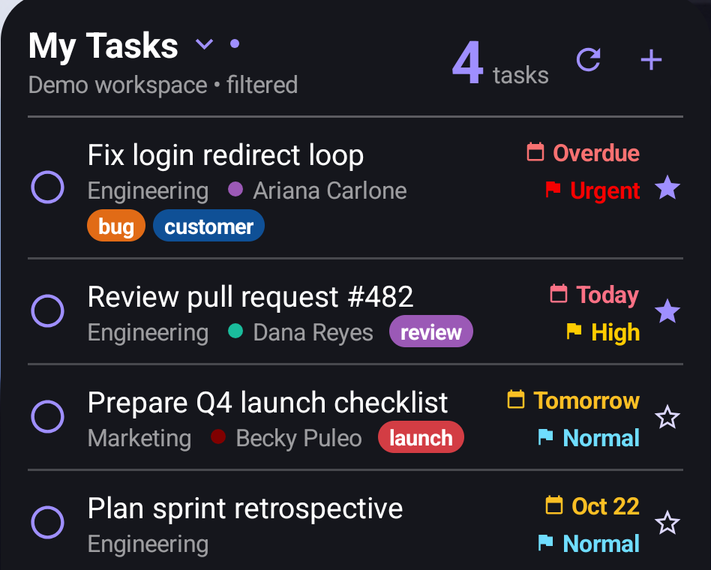
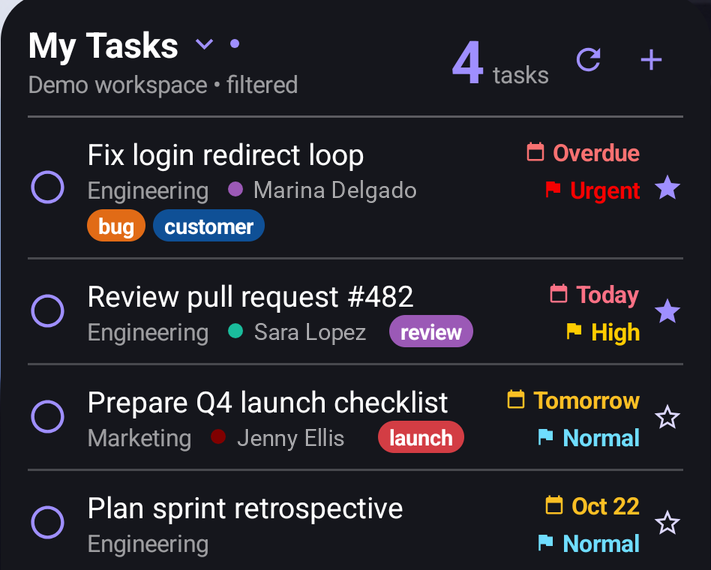
Use fictional names and ticket numbers in demo data, tests and docs
Same-length replacements keep the character-width layout tests valid. The two docs screenshots were repainted in Roboto at the original size and color.

Changed region(s): [[0.3404, 0.2982, 0.5879, 0.3579], [0.3094, 0.7456, 0.526, 0.8053], [0.3404, 0.5667, 0.526, 0.6263]]

diff --git a/android/app/src/test/java/net/jwowk/clickupwidget/widget/WidgetMathTest.kt b/android/app/src/test/java/net/jwowk/clickupwidget/widget/WidgetMathTest.kt
@@ -135,7 +135,7 @@ class WidgetMathTest {
   private fun layout(
     textW: Float,
     list: String? = "Ops team", // 57.6dp
-    req: String? = "Dana Reyes", // 72dp
+    req: String? = "Sara Lopez", // 72dp
     prio: Float? = 45f,
     tags: List<String> = emptyList(),
     measure: WidgetMath.TextMeasure = WidgetMath.ESTIMATE,
@@ -146,7 +146,7 @@ class WidgetMathTest {
     assertEquals(WidgetMath.Slot.META_LINE, l.tags)
     assertEquals(2, l.tagChips)
     assertEquals("Ops team", l.listName)
-    assertEquals("Dana Reyes", l.requester)
+    assertEquals("Sara Lopez", l.requester)
   }
 
   @Test fun rowLayoutMoreThanThreeTagsShowPlusNOnLine2() {
@@ -157,21 +157,21 @@ class WidgetMathTest {
 
   @Test fun rowLayoutTagsDropBelowRatherThanSqueezeTheTexts() {
     // Left of priority: 220 - 45 - 8 = 167dp; texts keep 56 + 56 + 2 gaps = 128 -> 39dp, too little for "finance".
-    val l = layout(220f, list = "Engineering team", req = "Ariana Carlone", tags = listOf("finance", "quarter-end", "ops"))
+    val l = layout(220f, list = "Engineering team", req = "Marina Delgado", tags = listOf("finance", "quarter-end", "ops"))
     assertEquals(WidgetMath.Slot.BELOW, l.tags)
     assertEquals(3, l.tagChips) // all three fit a full line below
     // 167 - 8 = 159dp for two texts both wider than half: 79.5dp each -> 11 chars.
     assertEquals("Engineerin…", l.listName)
-    assertEquals("Ariana Car…", l.requester)
+    assertEquals("Marina Del…", l.requester)
   }
 
   @Test fun rowLayoutRequesterIsTrimmedBeforeTagsLeaveLine2() {
     // 260 - 53 = 207dp; reserve 56 + 56 + 16 = 128 leaves 79dp: "bug" (35.8dp) stays on line 2. Texts get
     // 207 - 35.8 - 16 = 155.2dp: the short list name stays whole, the requester gets 155.2 - 57.6 = 97.6dp.
-    val l = layout(260f, req = "Ariana Carlone Smith", tags = listOf("bug"))
+    val l = layout(260f, req = "Marina Delgado Smith", tags = listOf("bug"))
     assertEquals(WidgetMath.Slot.META_LINE, l.tags)
     assertEquals("Ops team", l.listName)
-    assertEquals("Ariana Carlo…", l.requester)
+    assertEquals("Marina Delga…", l.requester)
   }
 
   @Test fun rowLayoutPriorityKeepsItsRoom() {
@@ -185,13 +185,13 @@ class WidgetMathTest {
   }
 
   @Test fun rowLayoutRequesterAloneGetsTheWholeLine() {
-    val l = layout(150f, list = null, req = "Ariana Carlone Smith-Jones", prio = null)
+    val l = layout(150f, list = null, req = "Marina Delgado Smith-Jones", prio = null)
     assertEquals(20, l.requester!!.length) // 150 / 7.2
   }
 
   @Test fun rowLayoutRequesterChromeComesOutOfItsRoom() {
     val l = WidgetMath.rowLayout(
-      150f, null, "Ariana Carlone Smith-Jones", null, emptyList(), chipSp = 11f, metaSp = 12f, requesterChromeDp = 14.4f,
+      150f, null, "Marina Delgado Smith-Jones", null, emptyList(), chipSp = 11f, metaSp = 12f, requesterChromeDp = 14.4f,
     )
     assertEquals(18, l.requester!!.length) // (150 - 14.4) / 7.2
   }
@@ -201,11 +201,11 @@ class WidgetMathTest {
     // wide needs 117.3dp of the 124.6dp it leaves: tags stay on line 2 and both texts fit whole.
     val narrowFont = WidgetMath.TextMeasure { text, sp, _ -> text.length * sp * 0.3f }
     val tags = listOf("finance", "quarter-end", "ops")
-    assertEquals(WidgetMath.Slot.BELOW, layout(300f, list = "Engineering team", req = "Ariana Carlone", tags = tags).tags)
-    val l = layout(300f, list = "Engineering team", req = "Ariana Carlone", tags = tags, measure = narrowFont)
+    assertEquals(WidgetMath.Slot.BELOW, layout(300f, list = "Engineering team", req = "Marina Delgado", tags = tags).tags)
+    val l = layout(300f, list = "Engineering team", req = "Marina Delgado", tags = tags, measure = narrowFont)
     assertEquals(WidgetMath.Slot.META_LINE, l.tags)
     assertEquals("Engineering team", l.listName)
-    assertEquals("Ariana Carlone", l.requester)
+    assertEquals("Marina Delgado", l.requester)
   }
 
   @Test fun rowLayoutAbsentPartsAreNone() {

diff --git a/android/app/src/test/java/net/jwowk/clickupwidget/data/api/TaskFieldsTest.kt b/android/app/src/test/java/net/jwowk/clickupwidget/data/api/TaskFieldsTest.kt
@@ -37,19 +37,19 @@ class TaskFieldsTest {
   fun standardFields_inOrder() {
     val out = fields(
       """
-      {"assignees":[{"username":"Josh"},{"username":"Becky"},{"username":""},{"id":3}],
+      {"assignees":[{"username":"Josh"},{"username":"Jenny"},{"username":""},{"id":3}],
        "start_date":"1792051200000","time_estimate":5400000,"points":3,
-       "date_created":"1792108800000","creator":{"username":"Ariana"},
+       "date_created":"1792108800000","creator":{"username":"Marina"},
        "custom_fields":[{"name":"Incident No.","type":"short_text","value":"INC1"}]}
       """.trimIndent(),
     )
     assertEquals(
       listOf(
-        TaskField("Assignees", "Josh, Becky"),
+        TaskField("Assignees", "Josh, Jenny"),
         TaskField("Start date", "Thu, Oct 15, 2026"),
         TaskField("Time estimate", "1h 30m"),
         TaskField("Sprint points", "3"),
-        TaskField("Created", "Fri, Oct 16, 2026 by Ariana"),
+        TaskField("Created", "Fri, Oct 16, 2026 by Marina"),
         TaskField("Incident No.", "INC1"),
       ),
       out,
@@ -123,14 +123,14 @@ class TaskFieldsTest {
   @Test
   fun requesterField_dropDownByOrderindexOrOptionId() {
     val options = """"type_config":{"options":[
-      {"id":"cad9","name":"Ariana Carlone","color":"#9b59b6","orderindex":0},
-      {"id":"beef","name":"Becky Puleo","color":"#800000","orderindex":17}]}"""
+      {"id":"cad9","name":"Marina Delgado","color":"#9b59b6","orderindex":0},
+      {"id":"beef","name":"Jenny Ellis","color":"#800000","orderindex":17}]}"""
     assertEquals(
-      "Becky Puleo" to "#800000",
+      "Jenny Ellis" to "#800000",
       requester("""{"custom_fields":[{"type":"drop_down","name":"Requester","value":17,$options}]}"""),
     )
     assertEquals(
-      "Ariana Carlone" to "#9b59b6",
+      "Marina Delgado" to "#9b59b6",
       requester("""{"custom_fields":[{"type":"drop_down","name":" requester ","value":"cad9",$options}]}"""),
     )
   }
@@ -152,10 +152,10 @@ class TaskFieldsTest {
       """
       {"custom_fields":[
         {"type":"drop_down","name":"Requester","value":17,"type_config":{"options":[
-          {"id":"cad9","name":"Ariana Carlone","color":"#9b59b6","orderindex":0},
-          {"id":"beef","name":"Becky Puleo","color":"#800000","orderindex":17}]}},
+          {"id":"cad9","name":"Marina Delgado","color":"#9b59b6","orderindex":0},
+          {"id":"beef","name":"Jenny Ellis","color":"#800000","orderindex":17}]}},
         {"type":"date","name":"Done Date","value":"1792051200000"},
-        {"type":"short_text","name":"Incident No.","value":"INC2383904"},
+        {"type":"short_text","name":"Incident No.","value":"INC0012345"},
         {"type":"number","name":"Ticket No","value":"9","type_config":{"number_format":"en-US"}},
         {"type":"text","name":"Incident Description","value":"Good day,\n\nPlease help."},
         {"type":"automatic_progress","name":"Progress","value":{"percent_complete":0}}
@@ -164,9 +164,9 @@ class TaskFieldsTest {
     )
     assertEquals(
       listOf(
-        TaskField("Requester", "Becky Puleo", "#800000"),
+        TaskField("Requester", "Jenny Ellis", "#800000"),
         TaskField("Done Date", "Thu, Oct 15, 2026"),
-        TaskField("Incident No.", "INC2383904"),
+        TaskField("Incident No.", "INC0012345"),
         TaskField("Ticket No", "9"),
         TaskField("Incident Description", "Good day,\n\nPlease help."),
       ),

diff --git a/android/app/src/main/java/net/jwowk/clickupwidget/data/DemoTaskRepository.kt b/android/app/src/main/java/net/jwowk/clickupwidget/data/DemoTaskRepository.kt
@@ -140,10 +140,10 @@ class DemoTaskRepository(nowMs: Long) : TaskRepository {
       )
       val (eng, ops, mkt) = LISTS
       return listOf(
-        task(1, "Fix login redirect loop", eng, -2, Priority.URGENT, IN_PROGRESS, listOf("bug", "customer"), "Ariana Carlone"),
-        task(2, "Review pull request #482", eng, 0, Priority.HIGH, IN_PROGRESS, listOf("review"), "Dana Reyes"),
+        task(1, "Fix login redirect loop", eng, -2, Priority.URGENT, IN_PROGRESS, listOf("bug", "customer"), "Marina Delgado"),
+        task(2, "Review pull request #482", eng, 0, Priority.HIGH, IN_PROGRESS, listOf("review"), "Sara Lopez"),
         task(3, "Update deployment runbook", ops, 0, Priority.NORMAL, TO_DO, listOf("docs")),
-        task(4, "Prepare Q4 launch checklist", mkt, 1, Priority.NORMAL, IN_PROGRESS, listOf("launch"), "Becky Puleo"),
+        task(4, "Prepare Q4 launch checklist", mkt, 1, Priority.NORMAL, IN_PROGRESS, listOf("launch"), "Jenny Ellis"),
         task(5, "Plan sprint retrospective", eng, 4, Priority.NORMAL, IN_PROGRESS),
         task(6, "Renew monitoring licenses", ops, 10, Priority.HIGH, TO_DO),
         task(7, "Investigate slow dashboard queries", eng, null, Priority.URGENT, REVIEW, listOf("performance")),
@@ -184,9 +184,9 @@ class DemoTaskRepository(nowMs: Long) : TaskRepository {
 
     /** Requester drop-down option colors (match [sampleFields]). */
     private val REQUESTER_COLORS = mapOf(
-      "Ariana Carlone" to "#9b59b6",
-      "Becky Puleo" to "#800000",
-      "Dana Reyes" to "#1abc9c",
+      "Marina Delgado" to "#9b59b6",
+      "Jenny Ellis" to "#800000",
+      "Sara Lopez" to "#1abc9c",
     )
 
     /** Read-only populated fields for a few demo tasks (what the live API's custom fields would give). */
@@ -197,25 +197,25 @@ class DemoTaskRepository(nowMs: Long) : TaskRepository {
         "demo-1" -> listOf(
           TaskField("Assignees", "Demo User"),
           TaskField("Time estimate", "4h"),
-          TaskField("Requester", "Ariana Carlone", "#9b59b6"),
-          TaskField("Incident No.", "INC2383904"),
-          TaskField("Created", date(-6) + " by Becky Puleo"),
+          TaskField("Requester", "Marina Delgado", "#9b59b6"),
+          TaskField("Incident No.", "INC0012345"),
+          TaskField("Created", date(-6) + " by Jenny Ellis"),
         )
         "demo-2" -> listOf(
           TaskField("Assignees", "Demo User"),
-          TaskField("Requester", "Dana Reyes", "#1abc9c"),
+          TaskField("Requester", "Sara Lopez", "#1abc9c"),
         )
         "demo-4" -> listOf(
-          TaskField("Assignees", "Demo User, Becky Puleo"),
+          TaskField("Assignees", "Demo User, Jenny Ellis"),
           TaskField("Start date", date(-3)),
           TaskField("Sprint points", "5"),
-          TaskField("Requester", "Becky Puleo", "#800000"),
+          TaskField("Requester", "Jenny Ellis", "#800000"),
           TaskField("Progress", "50%"),
         )
         "demo-7" -> listOf(
           TaskField("Assignees", "Demo User"),
           TaskField("Time estimate", "1h 30m"),
-          TaskField("Incident No.", "INC2391177"),
+          TaskField("Incident No.", "INC0012346"),
           TaskField("Priority rating", "★★★☆☆"),
         )
         else -> emptyList()

diff --git a/dev/test_fields.js b/dev/test_fields.js
@@ -8,14 +8,14 @@ if (start < 0 || end < 0) throw new Error('markers not found');
 const languageCode = 'en-US';
 const formatTaskFields = new Function('languageCode', html.slice(start, end) + '; return formatTaskFields;')(languageCode);
 
-const opts = [{ id: 'cad9', name: 'Ariana Carlone', color: '#9b59b6', orderindex: 0 }, { id: 'b2', name: 'Becky', color: '#800000', orderindex: 1 }];
+const opts = [{ id: 'cad9', name: 'Marina Delgado', color: '#9b59b6', orderindex: 0 }, { id: 'b2', name: 'Jenny', color: '#800000', orderindex: 1 }];
 const cf = (type, value, type_config) => ({ type, name: type + '-f', value, type_config: type_config || {} });
 const t = {
   assignees: [{ username: 'Josh' }, { username: 'Ann' }],
   start_date: '1792051200000', time_estimate: 5400000, points: 3, date_created: '1792051200000', creator: { username: 'Josh' },
   custom_fields: [
     cf('drop_down', 0, { options: opts }), cf('drop_down', 'b2', { options: opts }), cf('drop_down', 9, { options: opts }),
-    cf('date', '1792051200000'), cf('short_text', 'INC2383904'), cf('number', '9'), cf('currency', 12.5, { currency_type: 'USD' }),
+    cf('date', '1792051200000'), cf('short_text', 'INC0012345'), cf('number', '9'), cf('currency', 12.5, { currency_type: 'USD' }),
     cf('text', '  Good day,\n\nthere  '), cf('text', '   '), cf('checkbox', true), cf('checkbox', false),
     cf('labels', ['cad9', 'b2'], { options: [{ id: 'cad9', label: 'One' }, { id: 'b2', name: 'Two' }] }),
     cf('users', [{ username: 'A' }, { username: 'B' }]), cf('tasks', [{ name: 'T1' }]),
@@ -29,7 +29,7 @@ const t = {
 const got = formatTaskFields(t).map(f => f.name + '=' + f.value + (f.color ? '@' + f.color : ''));
 const want = [
   'Assignees=Josh, Ann', 'Start date=Thu, Oct 15, 2026', 'Time estimate=1h 30m', 'Sprint points=3', 'Created=Thu, Oct 15, 2026 by Josh',
-  'drop_down-f=Ariana Carlone@#9b59b6', 'drop_down-f=Becky@#800000', 'date-f=Thu, Oct 15, 2026', 'short_text-f=INC2383904', 'number-f=9',
+  'drop_down-f=Marina Delgado@#9b59b6', 'drop_down-f=Jenny@#800000', 'date-f=Thu, Oct 15, 2026', 'short_text-f=INC0012345', 'number-f=9',
   'currency-f=USD 12.5', 'text-f=Good day,\n\nthere', 'checkbox-f=Yes', 'labels-f=One, Two', 'users-f=A, B', 'tasks-f=T1', 'emoji-f=★★★☆☆',
   'automatic_progress-f=33%', 'manual_progress-f=50%', 'location-f=1 Main St', 'formula-f=42', 'attachment-f=2 files', 'weird-f=plain',
   'emoji-f=★★★☆☆', 'emoji-f=' + '★'.repeat(20), 'emoji-f=★★★★★',

diff --git a/android/app/src/main/java/net/jwowk/clickupwidget/data/model/Models.kt b/android/app/src/main/java/net/jwowk/clickupwidget/data/model/Models.kt
@@ -83,7 +83,7 @@ data class TaskDetail(
   val fields: List<TaskField> = emptyList(),
 )
 
-/** One populated task field for display, e.g. ("Requester", "Becky Puleo", "#800000"). */
+/** One populated task field for display, e.g. ("Requester", "Jenny Ellis", "#800000"). */
 @Serializable
 data class TaskField(
   val name: String,

diff --git a/android/tools/mock_clickup.py b/android/tools/mock_clickup.py
@@ -33,7 +33,7 @@ LISTS = {"L1": "Engineering", "L2": "Ops", "L3": "Inbox"}
 PRIO = {"urgent": "#f50000", "high": "#ffcc00", "normal": "#6fddff", "low": "#d8d8d8"}
 PRIO_BY_ID = {1: "urgent", 2: "high", 3: "normal", 4: "low"}
 TAG_COLORS = {"finance": "#0f5096", "bug": "#e50000", "planning": "#1b9e77", "security": "#7b2cbf", "meeting": "#0f5096"}
-REQUESTERS = [("Ariana Carlone", "#9b59b6"), ("Becky Puleo", "#800000"), ("Dana Reyes", "#1abc9c")]
+REQUESTERS = [("Marina Delgado", "#9b59b6"), ("Jenny Ellis", "#800000"), ("Sara Lopez", "#1abc9c")]
 PAGE = 100
 DAY = 86_400_000
 
@@ -77,7 +77,7 @@ def seed():
             "created": now - 7 * DAY,
             "fields": {
                 "requester": {"t1": 1, "t2": 0, "t7": 2}.get(tid),
-                "incident": {"t2": "INC2383904", "t7": "INC2390117"}.get(tid),
+                "incident": {"t2": "INC0012345", "t7": "INC0012347"}.get(tid),
                 "done_date": str(now + 5 * DAY) if tid in ("t1", "t5") else None,
                 "ticket": {"t1": "9", "t6": "42"}.get(tid),
                 "notes": "Customer reports the redirect loops after SSO.\nRepro on Android 14." if tid == "t2" else None,
